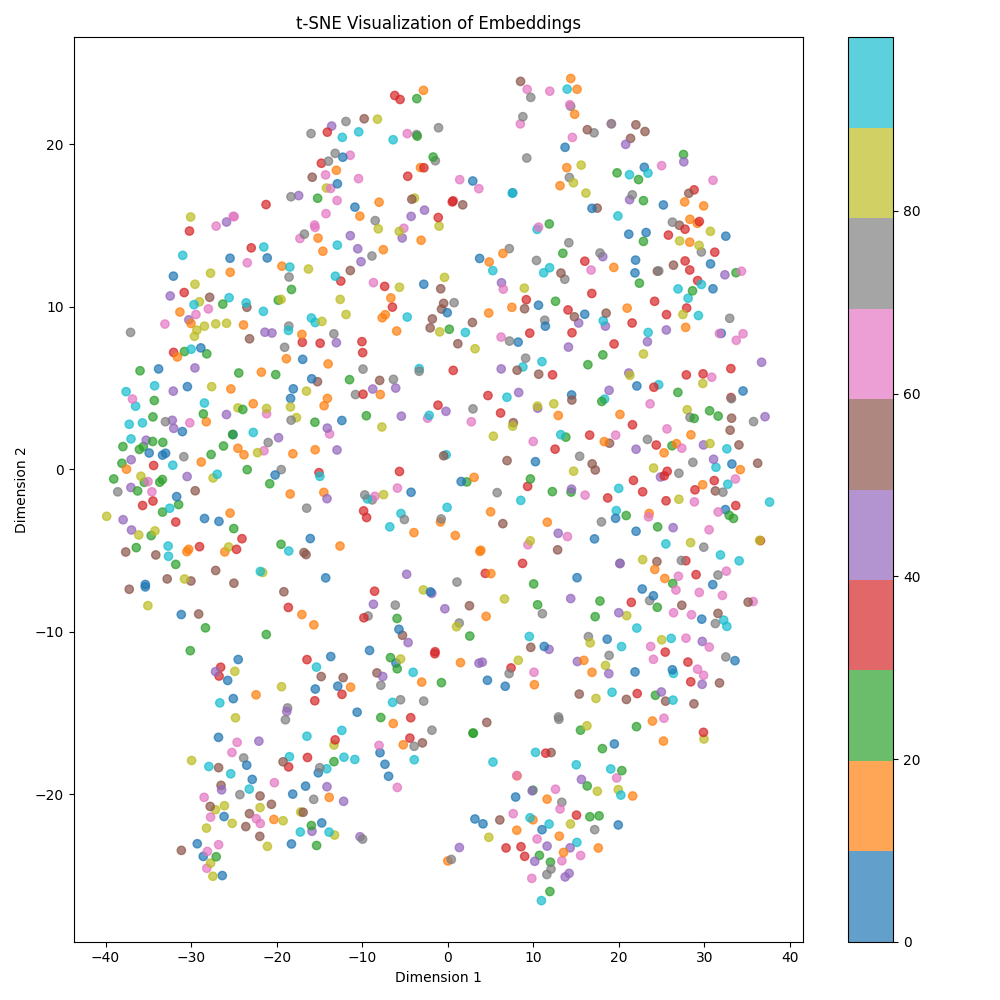
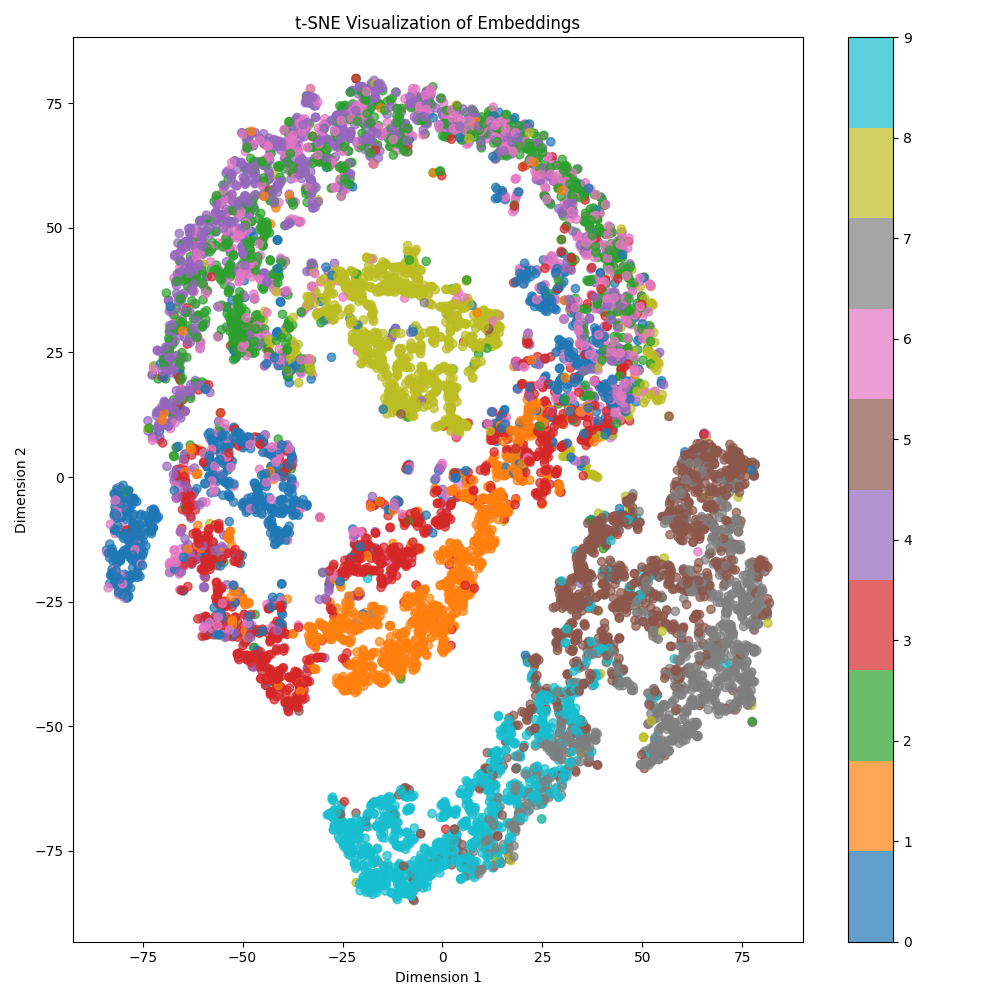
Mixture and Autoencoder is working

diff --git a/training_and_evaluate/train_contrastive.py b/training_and_evaluate/train_contrastive.py
@@ -2,14 +2,12 @@ import torch
 import torch.nn as nn
 import torch.nn.functional as F
 
-from training_and_evaluate.extract_embeddings import ExtractEmbeddings
 from utils.data_preprocess import PreProcessingClass
 
 class SupervisedContrastiveLoss(nn.Module):
     def __init__(self, temperature=0.07):
         super().__init__()
         self.temperature = temperature # Controls seperation of positive / negative pairs
-        self.extractor = ExtractEmbeddings(device='cuda' if torch.cuda.is_available() else 'cpu')
 
     def forward(self, features, labels):
         device = features.device
@@ -34,7 +32,7 @@ class SupervisedContrastiveLoss(nn.Module):
         mask = mask * logits_masked # Mask out self-similarity
 
         exp_logits = torch.exp(logits) * logits_masked
-        log_prob = logits - torch.log(exp_logits.sum(dim=1, keepdim=True))
+        log_prob = logits - torch.log(exp_logits.sum(dim=1, keepdim=True) + 1e-8)
 
         mask_sum = mask.sum(dim=1)
         mask_sum[mask_sum == 0] = 1.0 # Avoid division by zero for samples with no positive pairs
@@ -47,11 +45,11 @@ class SupervisedContrastiveLoss(nn.Module):
         return loss
 
 class ContrastiveTrainerAndEvaluator:
-    def __init__(self, model, margin=0.07, device='cuda'):
+    def __init__(self, model, temperature=0.07, device='cuda'):
         self.model = model
         self.device = device
         
-        self.criterion = SupervisedContrastiveLoss(temperature=margin)
+        self.criterion = SupervisedContrastiveLoss(temperature=temperature)
         self.optimizer = torch.optim.Adam(self.model.parameters(), lr=1e-3)
 
         self.preprocessor = PreProcessingClass(size=28)
@@ -64,7 +62,7 @@ class ContrastiveTrainerAndEvaluator:
     def train(self, train_loader):
         self.model.train()
         total_loss = 0.0
-        total_batches = 0
+        total_samples = 0
 
         for x, y in train_loader:
             x, y = x.to(self.device), y.to(self.device)
@@ -83,16 +81,15 @@ class ContrastiveTrainerAndEvaluator:
             self.optimizer.step()
 
             total_loss += loss.item() * x.size(0)
-            total_batches += 1
+            total_samples += x.size(0)
 
-        avg_loss = total_loss / max(total_batches, 1)
+        avg_loss = total_loss / max(total_samples, 1)
         return avg_loss
     
     def evaluate(self, test_loader):
         self.model.eval()
         total_loss = 0.0
-        correct, total = 0, 0
-        total_batches = 0
+        total_samples = 0
 
         with torch.no_grad():
             for x, y in test_loader:
@@ -106,21 +103,18 @@ class ContrastiveTrainerAndEvaluator:
                 features = torch.stack([p1, p2], dim=1)
                 loss = self.criterion(features, y)
 
-                correct += (p1.argmax(dim=1) == y).sum().item() # Using projection head for evaluation
-                total += y.size(0)
-
                 total_loss += loss.item() * x.size(0)
-                total_batches += 1
+                total_samples += x.size(0)
 
-        avg_loss = total_loss / max(total_batches, 1)
-        accuracy = correct / max(total, 1) * 100.0
-        return avg_loss, accuracy
+        avg_loss = total_loss / max(total_samples, 1)
+        
+        return avg_loss
 
     def run_experiment(self, train_loader, test_loader, epochs):
         for epoch in range(epochs):
             train_loss = self.train(train_loader)
             print(f'Epoch {epoch+1}/{epochs}, Train Loss: {train_loss:.4f}')
         
-        test_loss, test_acc = self.evaluate(test_loader)
-        print(f'Test Loss: {test_loss:.4f}, Test Accuracy: {test_acc:.4f}')
-        return test_loss, test_acc
+        test_loss = self.evaluate(test_loader)
+        print(f'Test Loss: {test_loss:.4f}')
+        return test_loss

diff --git a/main.py b/main.py
@@ -15,10 +15,10 @@ from models.autoencoder import AutoencoderModel
 
 device = torch.device('cuda' if torch.cuda.is_available() else 'cpu')
 
-EPOCHS = 30
+EPOCHS = 10
 
 if __name__ == '__main__':
-    dataset = FashionMNISTDataset(batch_size=64, size=28, split_fraction=0.5)
+    dataset = FashionMNISTDataset(batch_size=64, size=32, split_fraction=0.5)
     train_df, val_df, test_df = dataset.get_dataloaders()
     class_names = dataset.get_class_names()
 
@@ -29,24 +29,26 @@ if __name__ == '__main__':
     embedding_extractor = ExtractEmbeddings(device=device)
     visualizer = VisualizeEmbeddings()
 
-    '''# Autoencoder
-    autoencoder_model = AutoencoderModel(embedding_dim=128).to(device)
+    # Autoencoder
+    '''autoencoder_model = AutoencoderModel(in_channels=1, embedding_dim=128).to(device)
     autoencoder_trainer = AutoEncoderTrainerAndEvaluator(autoencoder_model)
     test_loss = autoencoder_trainer.run_experiment(train_df, test_df, epochs=EPOCHS)
     embeddings, labels, images = embedding_extractor.extract_embeddings(autoencoder_model, test_df, num_classes=NUM_CLASSES)
-    visualizer.visualize(model_name='autoencoder', embeddings=embeddings, labels=labels)'''
-
+    visualizer.visualize(model_name='autoencoder', embeddings=embeddings, labels=labels)
+'''
     # Contrastive
     contrastive_model = ContrastiveModel(in_channels=1, embedding_dim=128, projection_dim=64).to(device)
-    contrastive_trainer = ContrastiveTrainerAndEvaluator(contrastive_model, margin=1.0, device=device)
-    test_loss, test_accuracy = contrastive_trainer.run_experiment(train_df, test_df, epochs=EPOCHS)
+    contrastive_trainer = ContrastiveTrainerAndEvaluator(contrastive_model, temperature=1.0, device=device)
+    test_loss = contrastive_trainer.run_experiment(train_df, test_df, epochs=EPOCHS)
     embeddings, labels, images = embedding_extractor.extract_embeddings(contrastive_model, test_df, num_classes=NUM_CLASSES)
     visualizer.visualize(model_name='contrastive', embeddings=embeddings, labels=labels)
 
-    '''# Pretrained
+    # Pretrained
 
     # Experts
-    mixture_of_experts = MixtureOfExperts(num_experts=3, num_classes=len(class_names))
+''' mixture_of_experts = MixtureOfExperts(num_classes=len(class_names))
     expert_trainer = ExpertTrainerAndEvaluator(mixture_of_experts, device)
     test_loss, test_acc = expert_trainer.run_experiment(train_df, test_df, epochs=EPOCHS)
-    '''
+    embeddings, labels, images = embedding_extractor.extract_embeddings(mixture_of_experts, test_df, num_classes=NUM_CLASSES)
+    visualizer.visualize(model_name='mixtureofexpers', embeddings=embeddings, labels=labels)
+   ''' 

diff --git a/models/mixtureofexperts/mixture_of_experts.py b/models/mixtureofexperts/mixture_of_experts.py
@@ -1,3 +1,4 @@
+import torch
 import torch.nn as nn
 import torch.nn.functional as F
 
@@ -40,6 +41,7 @@ class Experts(nn.Module):
 
         # Compute outputs from each expert model
         experts_outputs = [expert(x) for expert in self.experts]
+        experts_outputs = torch.stack(experts_outputs, dim=1)
 
         # Combine expert outputs using the computed gate weights to produce final output
         gate_weights = gate_weights.unsqueeze(-1)
@@ -70,6 +72,12 @@ class MixtureOfExperts(nn.Module):
             nn.Linear(256, num_classes)
         )
 
+        self.projector = nn.Sequential(
+            nn.AdaptiveAvgPool2d(1),
+            nn.Flatten(),
+            nn.Linear(128, 64)
+        )
+
         self.router = Router(32, 3)
 
         # Mixture of experts module to dynamically route input samples to different expert models based on learned routing weights
@@ -78,4 +86,4 @@ class MixtureOfExperts(nn.Module):
     def forward(self, x):
         x = self.stem(x)
         output = self.experts(x)
-        return output
+        return x, output

diff --git a/models/autoencoder.py b/models/autoencoder.py
@@ -2,11 +2,11 @@ import torch
 import torch.nn as nn
 
 class AutoencoderModel(nn.Module):
-    def __init__(self, embedding_dim=128):
+    def __init__(self, in_channels=1, embedding_dim=128):
         super().__init__()
         
         self.encoder = nn.Sequential(
-            nn.Conv2d(3, 32, kernel_size=3, stride=2, padding=1), # 16x16
+            nn.Conv2d(in_channels, 32, kernel_size=3, stride=2, padding=1), # 16x16
             nn.BatchNorm2d(32),
             nn.ReLU(),
             nn.Conv2d(32, 64, kernel_size=3, stride=2, padding=1), # 8x8
@@ -29,7 +29,7 @@ class AutoencoderModel(nn.Module):
             nn.ConvTranspose2d(64, 32, kernel_size=3, stride=2, padding=1, output_padding=1), # 16x16
             nn.BatchNorm2d(32),
             nn.ReLU(),
-            nn.ConvTranspose2d(32, 3, kernel_size=3, stride=2, padding=1, output_padding=1), # 32x32
+            nn.ConvTranspose2d(32, 1, kernel_size=3, stride=2, padding=1, output_padding=0), 
             nn.Sigmoid(),
         )
 

diff --git a/training_and_evaluate/train_autoencoder.py b/training_and_evaluate/train_autoencoder.py
@@ -25,6 +25,7 @@ class AutoEncoderTrainerAndEvaluator:
 
             total_loss += loss.item() * x.size(0)
             total += x.size(0)
+
         avg_loss = total_loss / total
         return avg_loss
 
@@ -40,7 +41,9 @@ class AutoEncoderTrainerAndEvaluator:
                 loss = self.criterion(x_hat, x)
 
                 total_loss += loss.item() * x.size(0)
-        avg_loss = total_loss / len(test_loader.dataset)
+                total += x.size(0)
+
+        avg_loss = total_loss / max(total, 1)
 
         return avg_loss
     

diff --git a/training_and_evaluate/train_expert.py b/training_and_evaluate/train_expert.py
@@ -16,7 +16,7 @@ class ExpertTrainerAndEvaluator:
             x, y = x.to(self.device), y.to(self.device)
 
             self.optimizer.zero_grad()
-            outputs = self.model(x)
+            _ , outputs = self.model(x)
             loss = self.criterion(outputs, y)
             loss.backward()
             self.optimizer.step()
@@ -37,7 +37,7 @@ class ExpertTrainerAndEvaluator:
         with torch.no_grad():
             for x, y in test_loader:
                 x, y = x.to(self.device), y.to(self.device)
-                outputs = self.model(x)
+                _ , outputs = self.model(x)
                 loss = self.criterion(outputs, y)
 
                 total_loss += loss.item() * x.size(0)

diff --git a/utils/dataset.py b/utils/dataset.py
@@ -48,7 +48,7 @@ class FashionMNISTDataset:
 
         # Preprocess the data
         train_X = torch.stack([
-            self.preprocessor.preprocess(img, augment=True) for img in self.train_X
+            self.preprocessor.preprocess(img, augment=False) for img in self.train_X
         ])
 
         val_X = torch.stack([
@@ -58,6 +58,8 @@ class FashionMNISTDataset:
         test_X = torch.stack([
             self.preprocessor.preprocess(img, augment=False) for img in self.test_X
         ])
+
+        #print(f"Shape: {train_X.shape}")
 
         # Convert labels to tensors
         train_y = torch.tensor(self.train_y, dtype=torch.long)

diff --git a/training_and_evaluate/extract_embeddings.py b/training_and_evaluate/extract_embeddings.py
@@ -22,6 +22,9 @@ class ExtractEmbeddings:
         with torch.no_grad():
             for x, y in data_loader:
                 z, p = model(x) # Extract embeddings from the model
+
+                z = z.view(z.size(0), -1)
+                
                 embeddings.append(z.cpu())
                 labels.append(y.cpu())
                 images.append(x.cpu())

diff --git a/models/mixtureofexperts/fire_module.py b/models/mixtureofexperts/fire_module.py
@@ -36,7 +36,7 @@ class SqueezeNet(nn.Module):
 
         # Stem layer to reduce spatial dimensions and increase channels
         self.stem = nn.Sequential(
-            nn.Conv2d(1, 32, 3, padding=3),
+            nn.Conv2d(32, 32, 3, padding=3),
             nn.ReLU(),
             nn.MaxPool2d(3, padding=1)
         )

diff --git a/models/mixtureofexperts/inception_block.py b/models/mixtureofexperts/inception_block.py
@@ -51,7 +51,7 @@ class InceptionNet(nn.Module):
 
         # Initial convolutional layer to reduce spatial dimensions and increase channels
         self.stem = nn.Sequential(
-            nn.Conv2d(1, 32, 3, padding=1),
+            nn.Conv2d(32, 32, 3, padding=1),
             nn.ReLU(),
             nn.MaxPool2d(2)
         )

diff --git a/models/mixtureofexperts/residual_block.py b/models/mixtureofexperts/residual_block.py
@@ -38,7 +38,7 @@ class ResidualNet(nn.Module):
 
         # Initial convolutional layer to reduce spatial dimensions and increase channels
         self.stem = nn.Sequential(
-            nn.Conv2d(1, 32, 3, padding=1),
+            nn.Conv2d(32, 32, 3, padding=1),
             nn.ReLU(),
             nn.MaxPool2d(2)
         )

diff --git a/utils/data_preprocess.py b/utils/data_preprocess.py
@@ -6,7 +6,7 @@ class PreProcessingClass:
         self.size = size
 
     def preprocess(self, image, augment=False):
-        if isinstance(self, torch.Tensor):
+        if isinstance(image, torch.Tensor):
             image = image.numpy()
 
         if augment: # Apply data augmentation during training